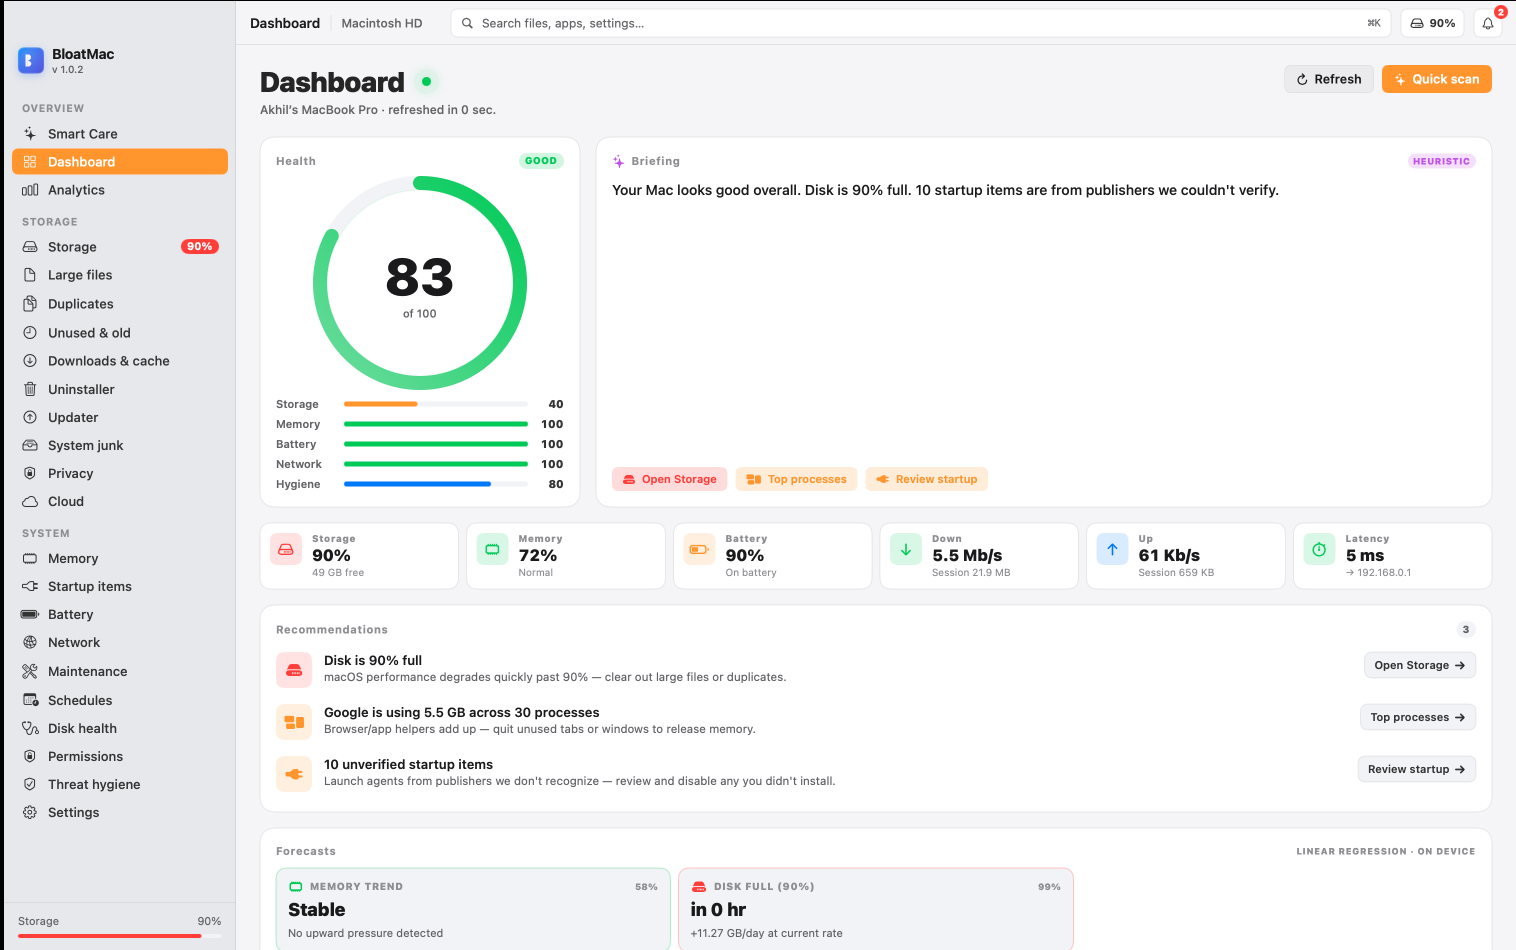
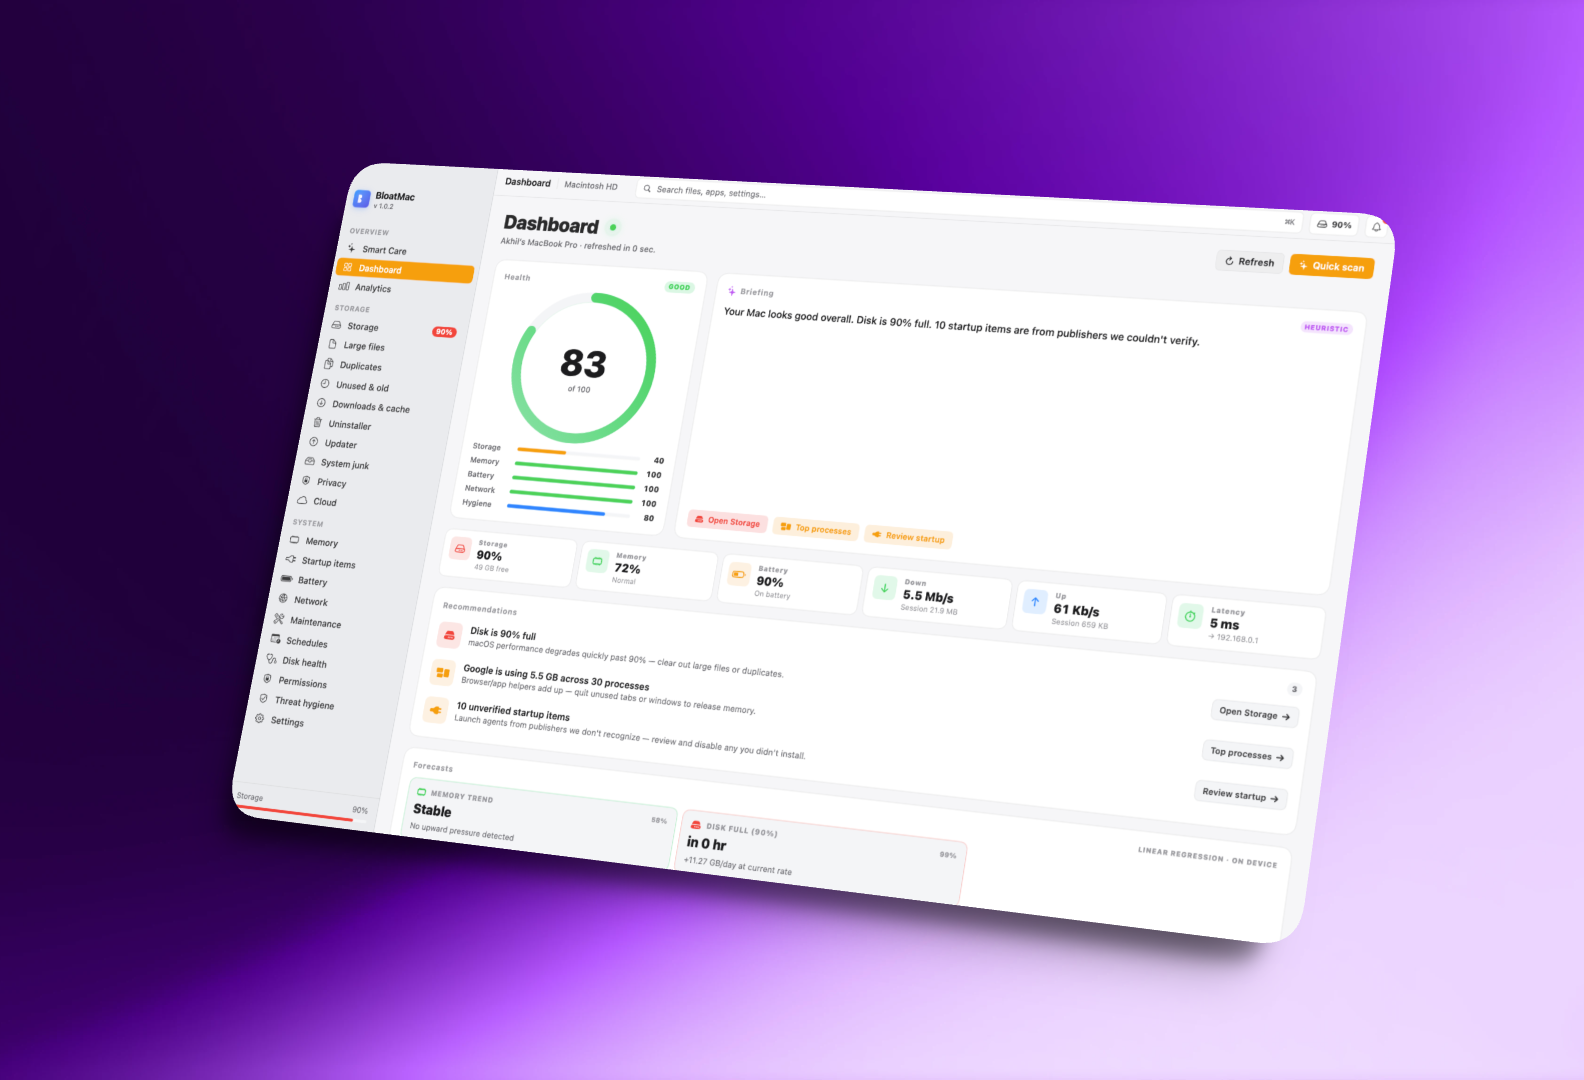
docs: swap screenshots for hero renders (ss-01 dashboard, ss-02 network)

diff --git a/README.md b/README.md
@@ -37,29 +37,9 @@ Native SwiftUI cleanup + maintenance app. **19 screens.** CleanMyMac-class featu
 
 ![Dashboard](bloatmac/screenshots/dashboard.png)
 
-**Smart Care**
-
-![Smart Care](bloatmac/screenshots/smart-care.png)
-
-**Analytics**
-
-![Analytics](bloatmac/screenshots/analytics.png)
-
-**Duplicates**
-
-![Duplicates](bloatmac/screenshots/duplicates.png)
-
-**Memory**
-
-![Memory](bloatmac/screenshots/memory.png)
-
 **Network**
 
 ![Network](bloatmac/screenshots/network.png)
-
-**Onboarding**
-
-![Onboarding](bloatmac/screenshots/onboarding.png)
 
 ## Install BloatMac
 
